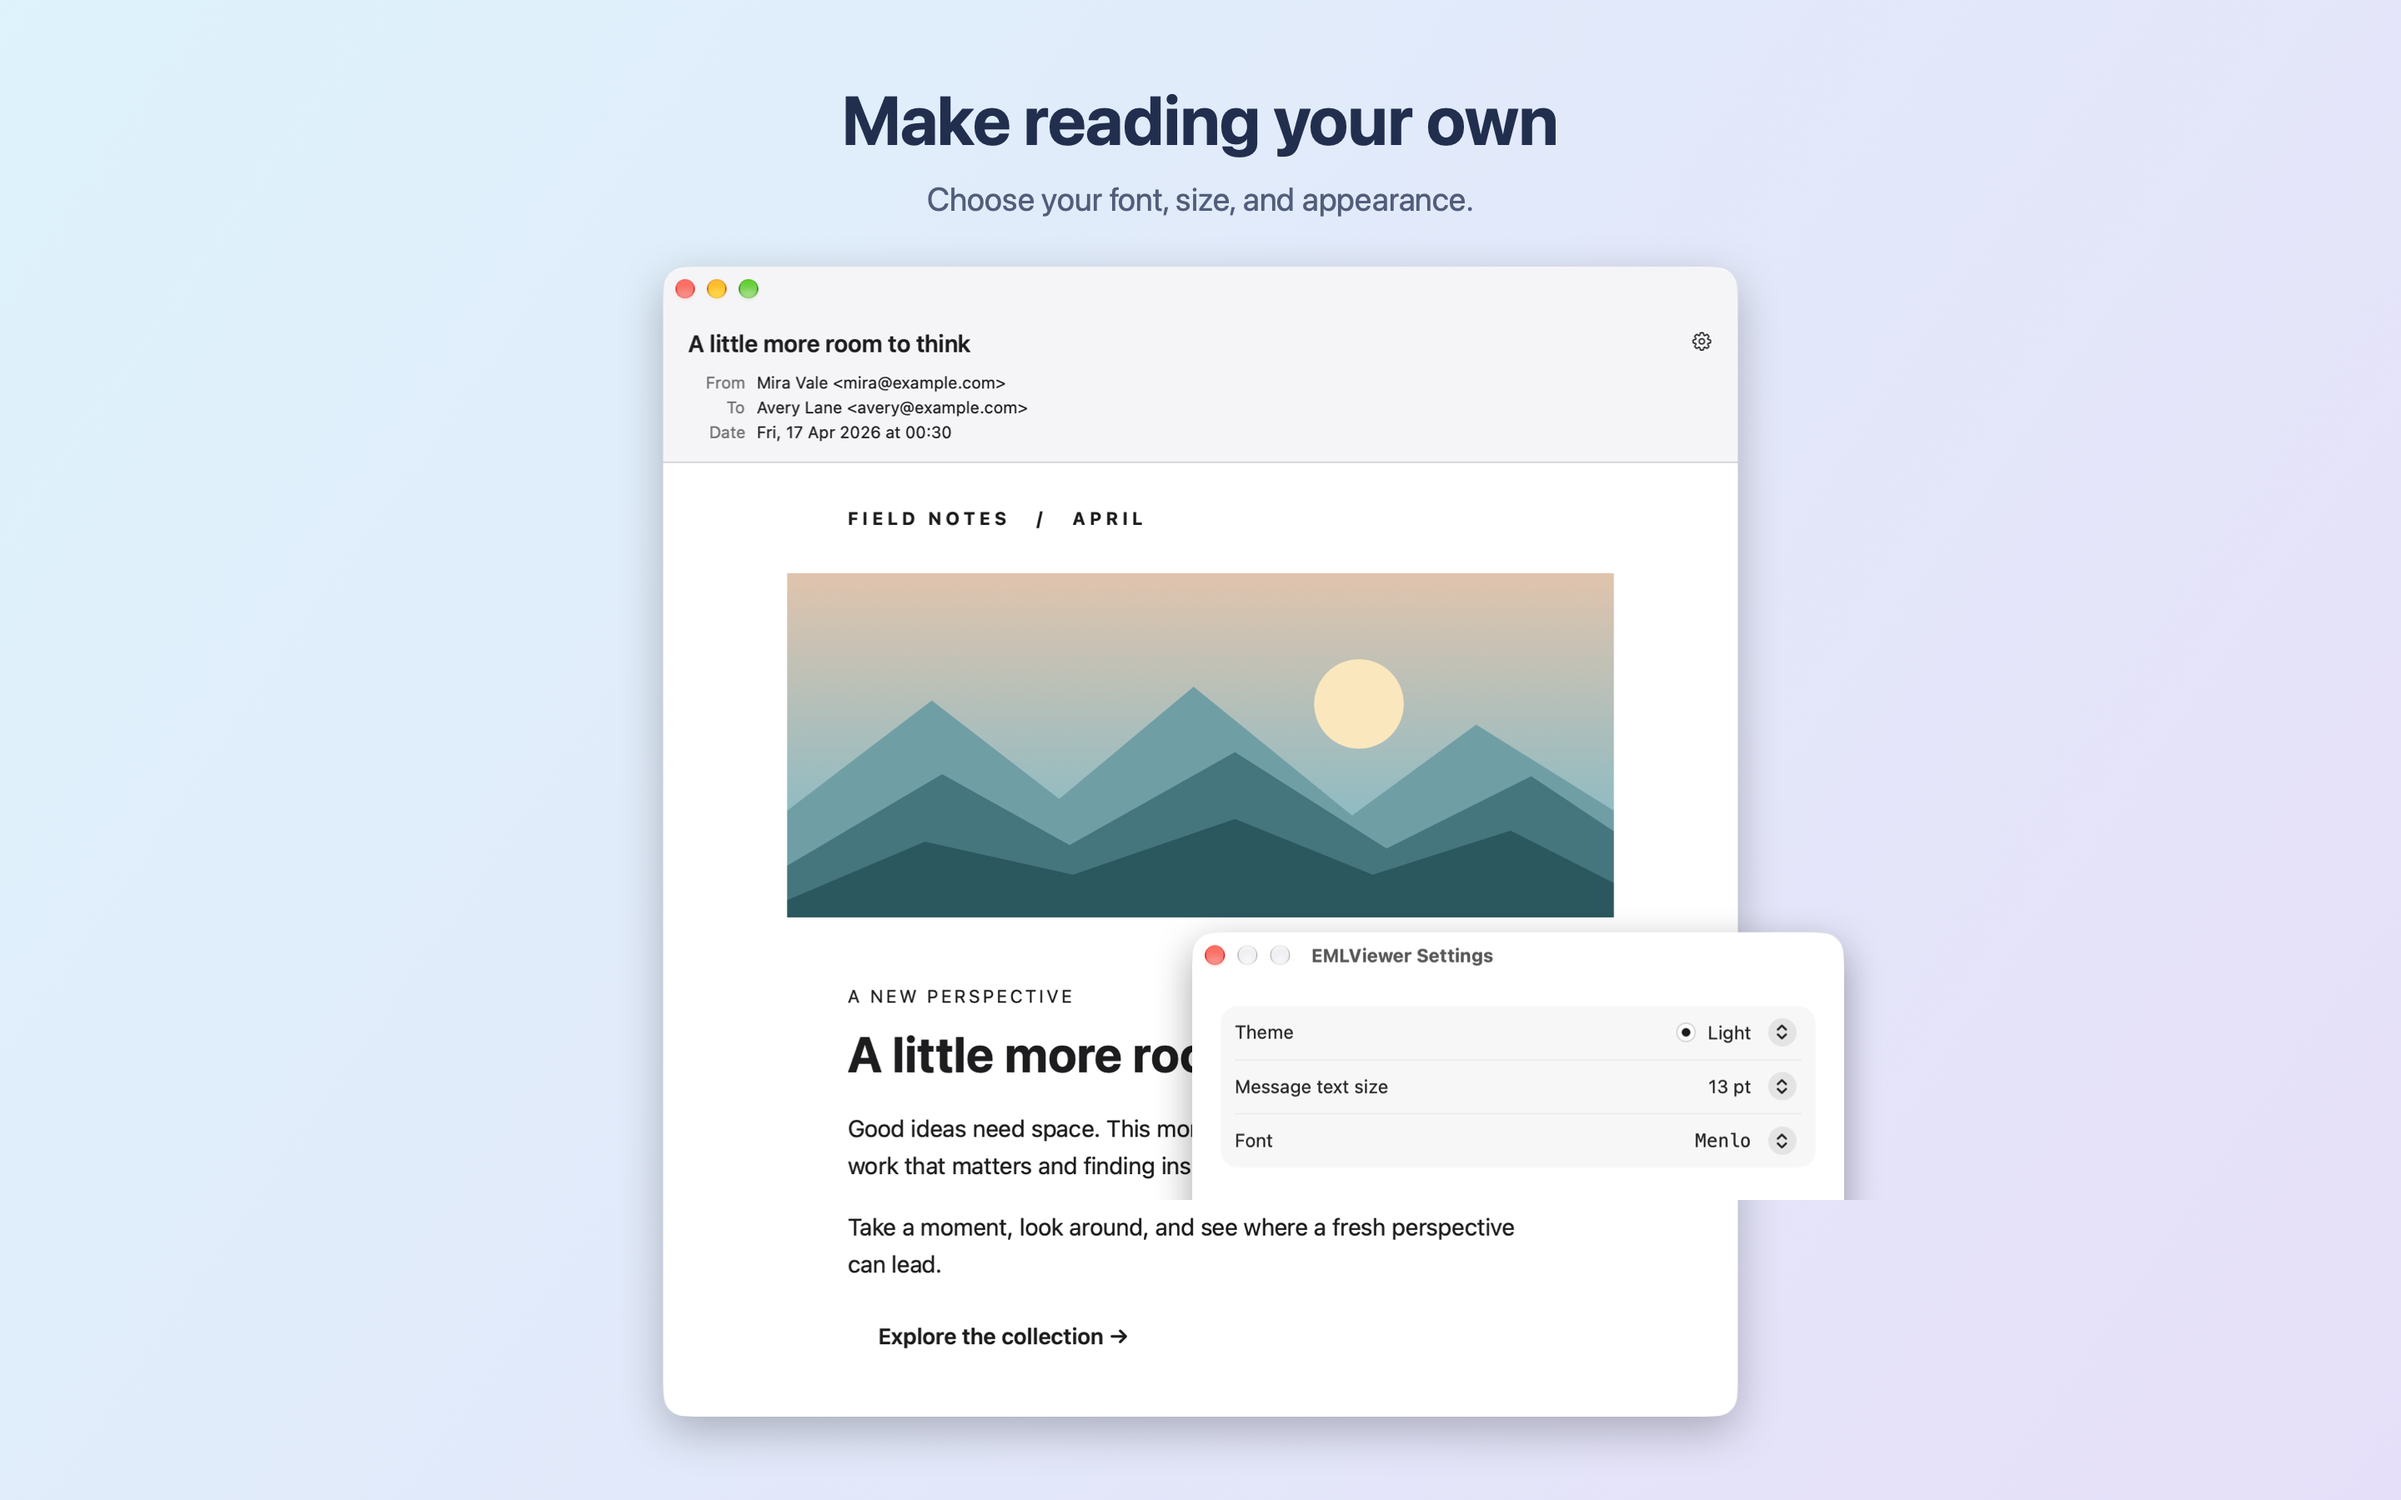
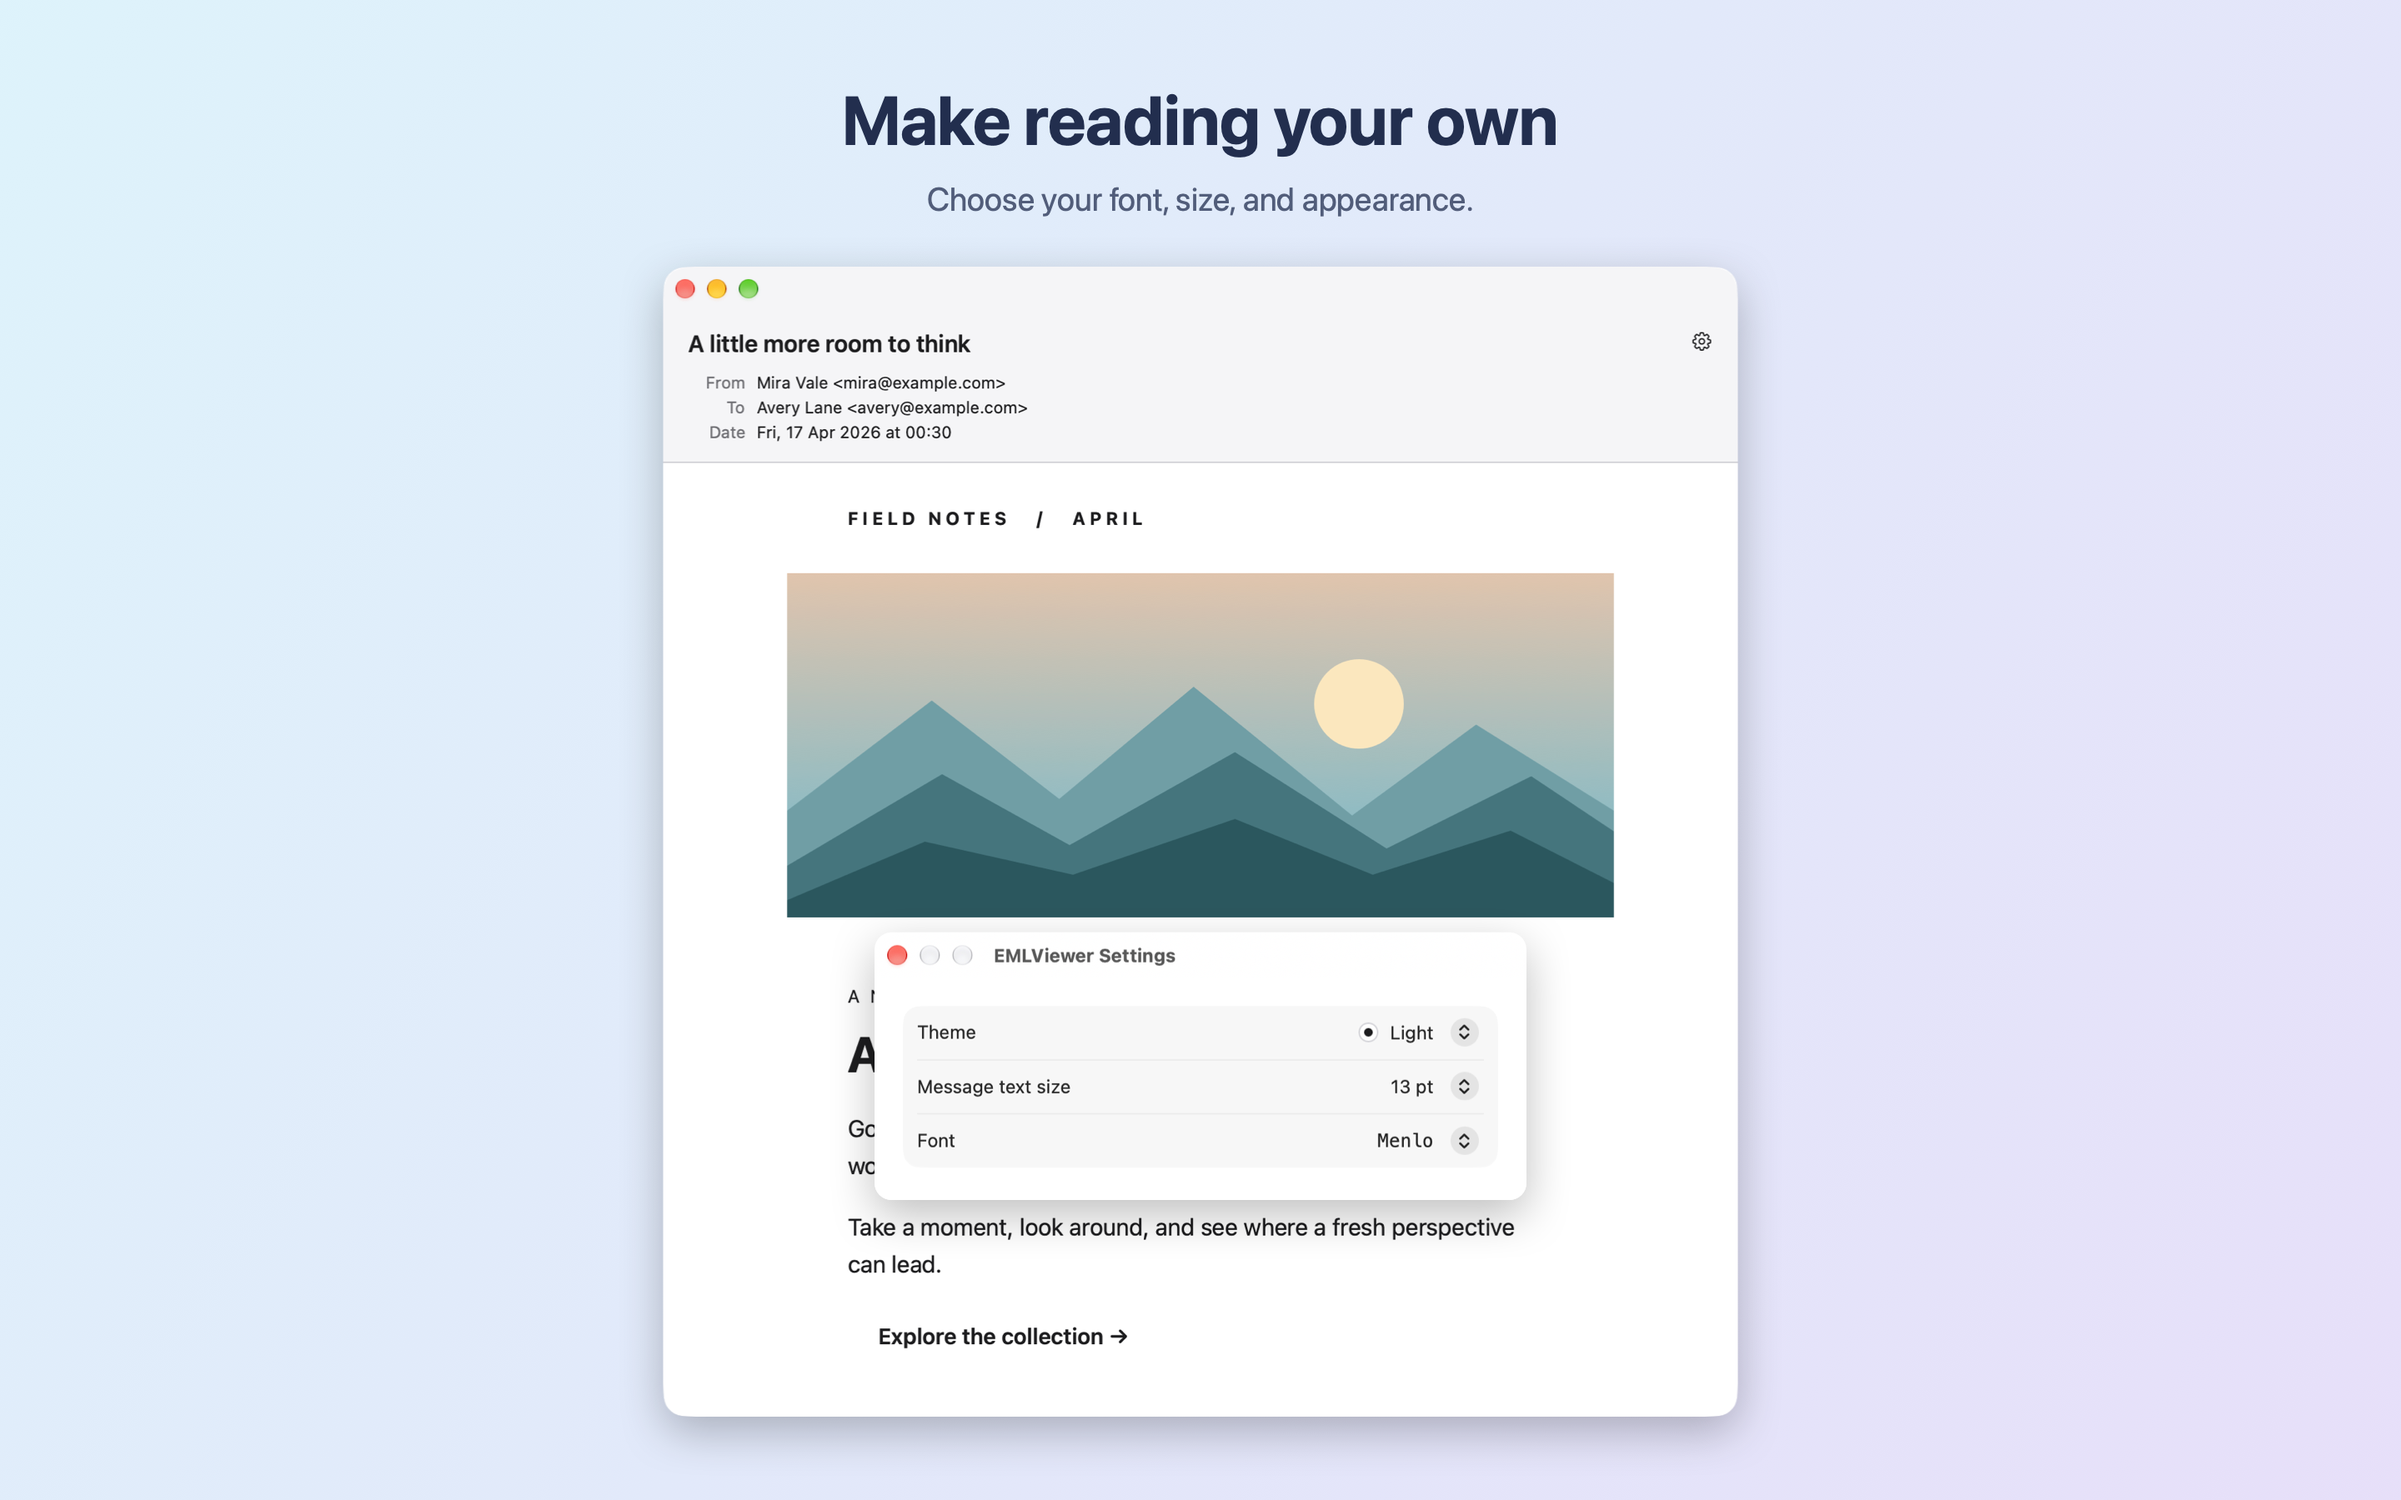
Round settings screenshot window

Changed region(s): [[0.3438, 0.6222, 0.6562, 0.84], [0.7188, 0.6222, 0.7812, 0.8089], [0.5312, 0.6844, 0.5938, 0.7467]]

diff --git a/Scripts/appstore/compose.swift b/Scripts/appstore/compose.swift
@@ -16,6 +16,7 @@ let frames: [(String, String, String, String, Bool)] = [
 let size = NSSize(width: 2880, height: 1800)
 let cs = CGColorSpace(name: CGColorSpace.sRGB)!
 for (name, source, title, subtitle, dark) in frames {
+    if CommandLine.arguments.count > 1 && CommandLine.arguments[1] != name { continue }
     let context = CGContext(data: nil, width: 2880, height: 1800, bitsPerComponent: 8, bytesPerRow: 2880 * 4, space: cs, bitmapInfo: CGImageAlphaInfo.noneSkipLast.rawValue)!
     NSGraphicsContext.saveGraphicsState()
     NSGraphicsContext.current = NSGraphicsContext(cgContext: context, flipped: false)
@@ -43,9 +44,15 @@ for (name, source, title, subtitle, dark) in frames {
     if name == "05-settings" {
         let settings = NSImage(contentsOf: raw.appendingPathComponent("settings.png"))!
         let crop = NSRect(x: 0, y: settings.size.height * 0.58, width: settings.size.width, height: settings.size.height * 0.42)
-        let overlay = NSRect(x: 1430, y: 360, width: settings.size.width * 1.7, height: crop.height * 1.7)
+        let overlay = NSRect(x: (2880 - settings.size.width * 1.7) / 2, y: 360, width: settings.size.width * 1.7, height: crop.height * 1.7)
+        let mask = NSBezierPath(roundedRect: overlay, xRadius: 12 * 1.7, yRadius: 12 * 1.7)
         context.saveGState()
-        context.setShadow(offset: CGSize(width: 0, height: -16), blur: 48, color: NSColor.black.withAlphaComponent(0.35).cgColor)
+        context.setShadow(offset: CGSize(width: 0, height: -18), blur: 55, color: NSColor.black.withAlphaComponent(0.25).cgColor)
+        NSColor.white.setFill()
+        mask.fill()
+        context.restoreGState()
+        context.saveGState()
+        mask.addClip()
         settings.draw(in: overlay, from: crop, operation: .sourceOver, fraction: 1)
         context.restoreGState()
     }
